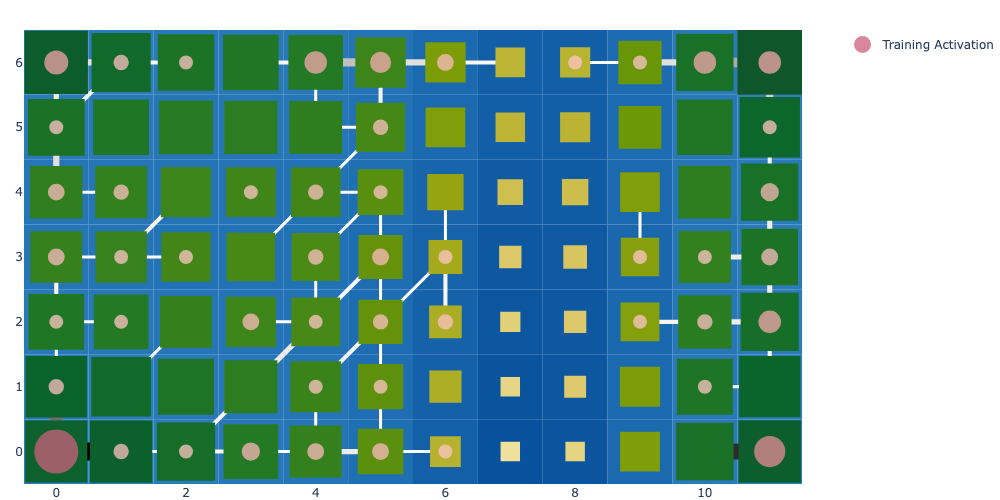
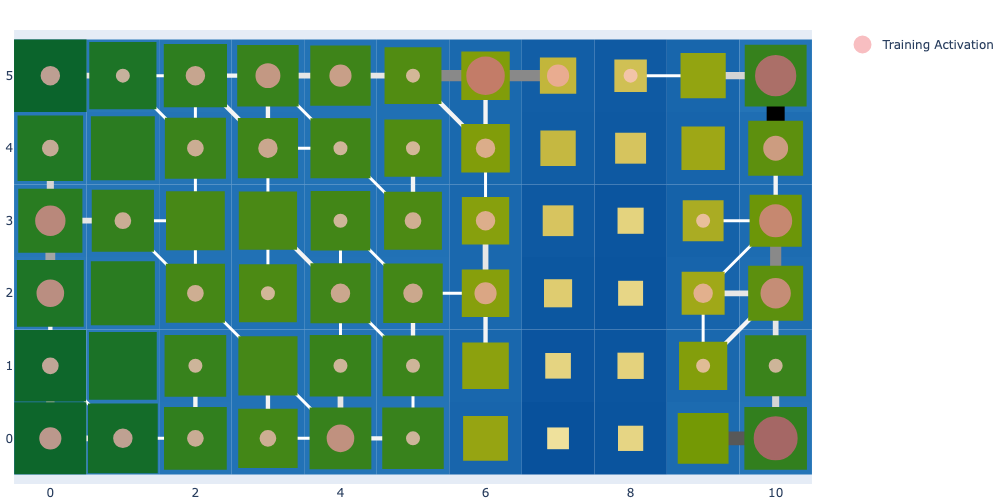
Post-version: Update README

diff --git a/README.md b/README.md
@@ -55,7 +55,7 @@ X_scaled = StandardScaler().fit_transform(X)
 ``` python
 # prepare for the pond with a `Basin`
 from lilypond import Basin
-basin = Basin.from_data(X_scaled, random_seed=42, verbose=False)
+basin = Basin.from_data_online(X_scaled, random_seed=42, verbose=False)
 ```
 
 ### Legacy visualizations
@@ -139,8 +139,8 @@ basin.pond(base_style="iceflock") \
 
 ``` python
 # use the quantization error measured from best-matching unit as the color of the projected sample
-import numpy as np
 
+import numpy as np
 X_quantization_errors = np.linalg.norm(basin.som_representation.som.quantization(X_scaled) - X_scaled, axis=1)
 custom_marker = dict(opacity=.85, size=16, color=X_quantization_errors, colorscale="Spectral_r", line=dict(width=1, color="black"))
 
@@ -155,3 +155,29 @@ basin.pond(base_style="iceflock") \
 ```
 
 ![](README_files/figure-commonmark/cell-13-output-1.png)
+
+``` python
+# inspect 1st and 2nd BMU connections of certain data points
+
+import numpy as np
+rng = np.random.default_rng(42)
+sampled_indices = rng.choice(X_scaled.shape[0], size=25, replace=False)
+
+X_scaled_selected = X_scaled[sampled_indices].copy()
+custom_marker.update(dict(opacity=.95, size=20))
+
+basin.pond(base_style="iceflock") \
+    .pad_layer() \
+    .rhizome_layer(
+        X=X_scaled_selected,
+        colorscale=["#000000", "#000000"]
+    ) \
+    .attraction_layer(
+        X_scaled_selected,
+        jitter_amount=.3,
+        marker=custom_marker
+    ) \
+    .visualize(width=1000);
+```
+
+![](README_files/figure-commonmark/cell-14-output-1.png)
